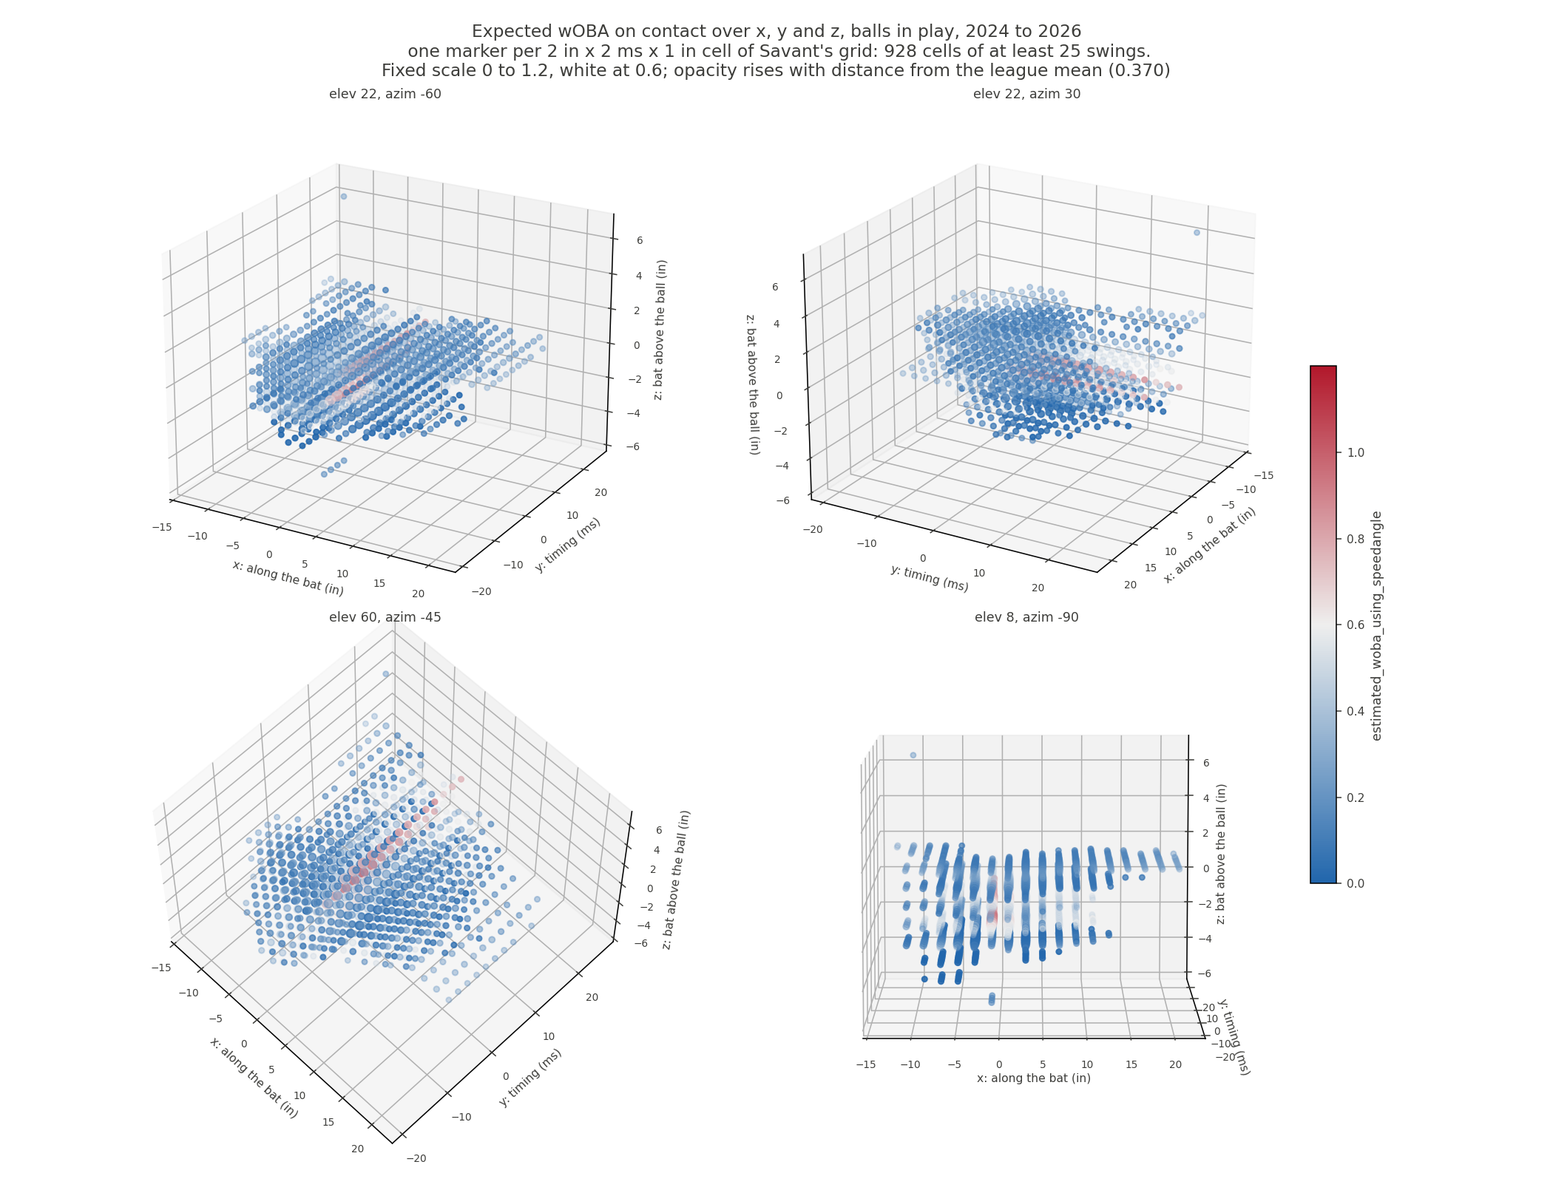
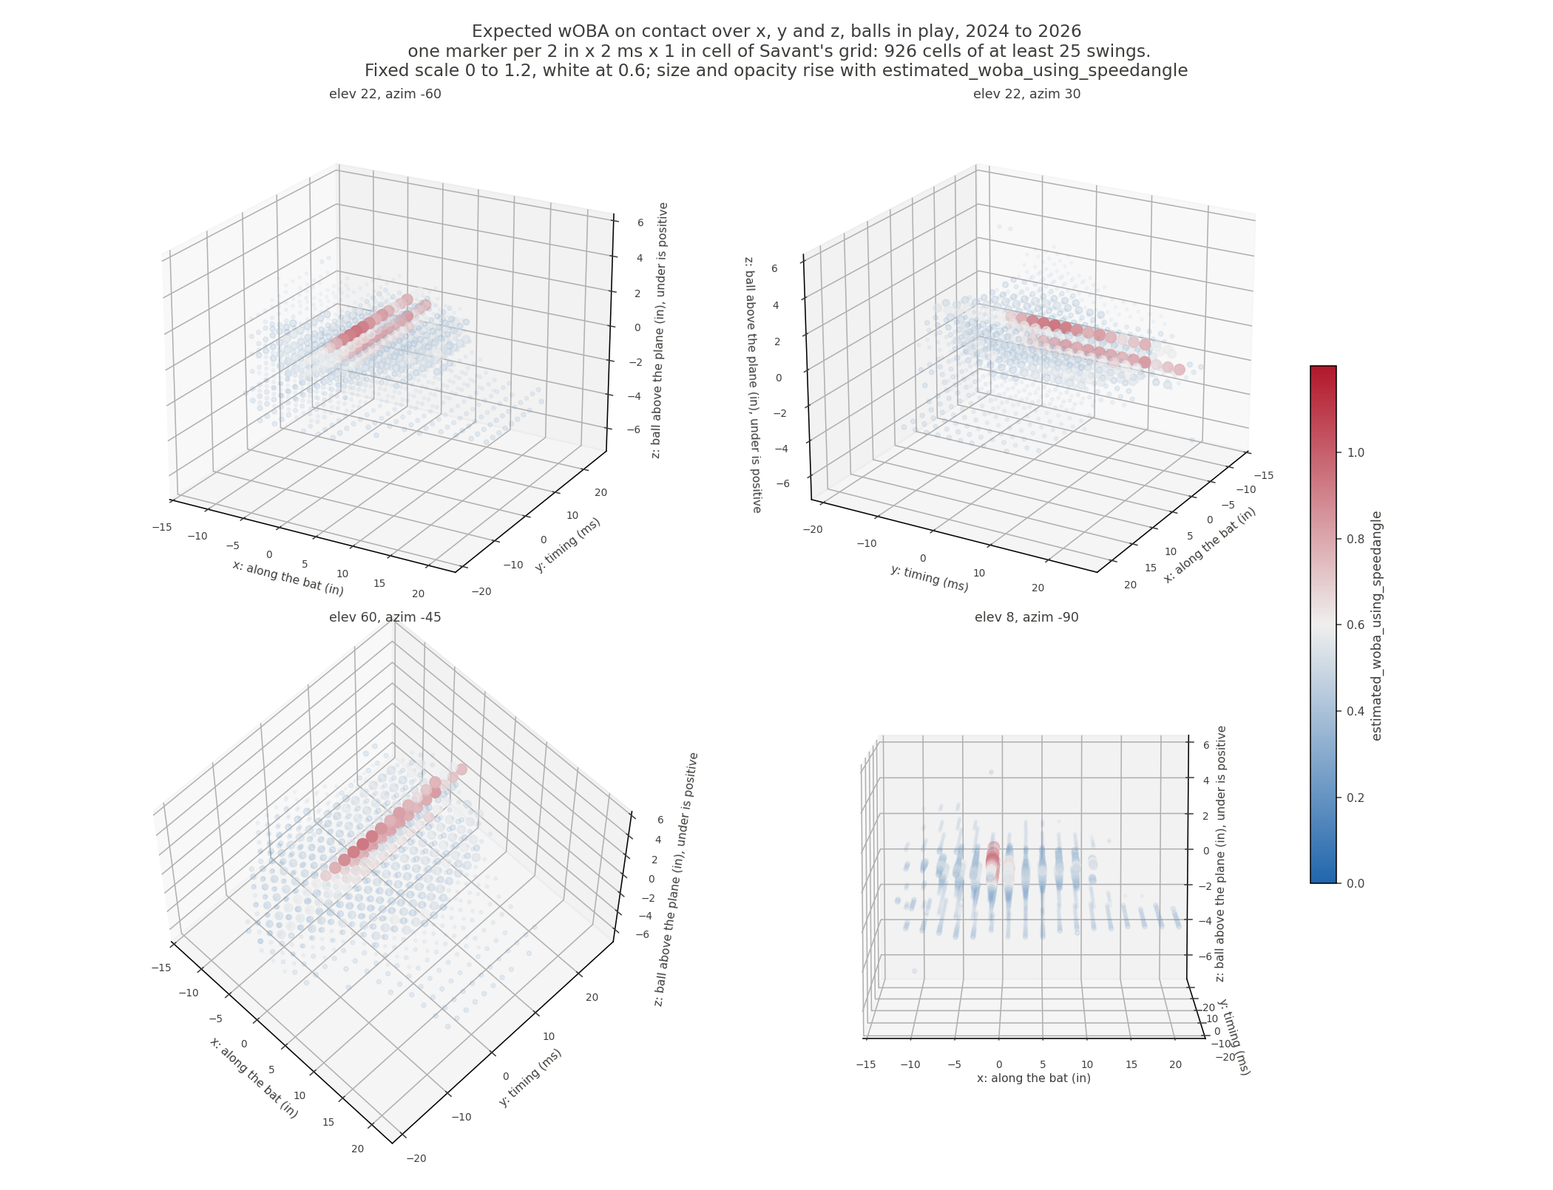
Draw every axis on Savant's own sign, and make the 3D encoding monotone
On z that means UNDER is positive. It reads backwards until you notice that
Savant's number and Savant's label describe different objects: the number is the
ball's height above the swing plane, the label is what the bat did, and a ball
above the plane means the bat passed under it. Getting under the ball is what
lifts it, so a positive launch angle from "under" is correct rather than a sign
error: the mean is +22 degrees at z = +0.75 and -6 at z = -0.75.

The 3D figures now encode size and opacity monotonically in the value, so the
best cells are full size and opaque and the worst fade out. A symmetric ramp
about the league mean made the worst cells as loud as the best and buried the
ridge inside a shell of ordinary blue. Opacity normalises on the data's own
range rather than the fixed colour scale, so the reddest cell present reaches
full opacity even though expected wOBA tops out near .92 on a bar drawn to 1.2.

Dropped the top-pitcher and top-batter panels.

111 tests pass, 7 skip without the cached pulls.

diff --git a/cp_lib/plots.py b/cp_lib/plots.py
@@ -22,19 +22,21 @@ from .calibrate import BINS, to_bin  # noqa: E402
 AXIS_LABEL = {
     "x": "along the bat (in): tied up  |  centered  |  flail",
     "y": "timing (ms): late  |  on time  |  early",
-    # Every figure draws z as the BAT's height above the ball, so "over" is
-    # positive, which is the way round Jeremy reads it. Savant's stored field
-    # is the opposite sign: it is the BALL's height above the swing plane, and
-    # their own leaderboard publishes avg_z_over = -3.78, avg_z_under = +2.99.
-    # See DISPLAY_SIGN.
-    "z": "bat above the ball (in): under  |  lined up  |  over",
+    # Savant's own sign and ordering. The word "ball" is load-bearing: the
+    # NUMBER is the ball's height above the swing plane while the LABEL is what
+    # the bat did, and they point opposite ways. A ball above the plane means
+    # the bat passed under it, so "under" is the POSITIVE end. Savant's league
+    # page publishes avg_z_over = -3.78 and avg_z_under = +2.99, and getting
+    # under the ball is what lifts it: mean launch angle is +22 degrees at
+    # z = +0.75 and -6 degrees at z = -0.75.
+    "z": "ball above the swing plane (in): over  |  lined up  |  under",
 }
 
-# Applied at the drawing boundary only. Everything upstream -- reconstruction,
-# calibration, and every comparison against Savant -- stays on Savant's own
-# sign, so a tail row's raw delta never has to be negated to be checked. Both
-# thresholds are symmetric, so nothing else moves.
-DISPLAY_SIGN = {"x": 1.0, "y": 1.0, "z": -1.0}
+# Every axis is drawn on Savant's own sign, so a figure and a validation table
+# can never disagree. The machinery stays because the bin-mirroring rule in
+# to_display_bin is easy to get wrong and this is where it is written down;
+# flipping one entry to -1.0 is the whole change if an axis ever needs it.
+DISPLAY_SIGN = {"x": 1.0, "y": 1.0, "z": 1.0}
 
 
 def to_display(axis: str, values):
@@ -239,20 +241,30 @@ def _diverging_limits(vals, vcenter=0.0, weights=None, keep=1.0):
     return centre, centre - lim, centre + lim
 
 
-def _fade(values, weights=None, keep=0.98, floor=0.10, span=0.80):
-    """Alpha per cell: the ordinary fades out, the unusual stays.
+def _fade(values, keep=0.98, floor=0.03, span=0.97, power=1.8):
+    """Opacity and a 0-to-1 weight per cell, rising with the VALUE itself.
 
-    The anchor is NOT a parameter, deliberately. It is always the data's own
-    weighted centre, so no caller can hand it a fixed scale's white. Passing
-    xwOBA's white (0.600) instead of its league mean (0.370) made the good
-    ridge the faintest thing in the figure and the ordinary shell the most
-    opaque, which is this function's purpose exactly inverted.
+    Monotone, not symmetric about a centre. The reader is looking for where the
+    good contact is, so the best cells are opaque and full size and the worst
+    fade out of the way. An earlier version ramped on distance from the league
+    mean, which made the worst cells as loud as the best and buried the ridge
+    inside an opaque shell of ordinary blue.
+
+    Normalised on the data's own robust range rather than the fixed colour
+    scale, so the reddest cell PRESENT reaches full opacity even when the scale
+    leaves headroom above it (xwOBA tops out near 0.92 on a bar drawn to 1.2).
+    Colour stays comparable between figures; opacity is a within-figure aid.
     """
     v = np.asarray(values, float)
-    centre = float(np.average(v, weights=weights) if weights is not None else v.mean())
-    seen = float(np.quantile(np.abs(v - centre), keep)) or 0.1
-    dist = np.clip(np.abs(v - centre) / seen, 0.0, 1.0)
-    return floor + span * dist ** 1.1, centre
+    finite = v[np.isfinite(v)]
+    if finite.size == 0:
+        return np.full(v.shape, floor), np.zeros(v.shape)
+    edge = (1.0 - keep) / 2.0
+    lo, hi = np.quantile(finite, [edge, 1.0 - edge])
+    if hi <= lo:
+        lo, hi = float(finite.min()), float(finite.max())
+    u = np.clip((v - lo) / (hi - lo), 0.0, 1.0) if hi > lo else np.full(v.shape, 0.5)
+    return floor + span * u ** power, u
 
 
 def _scale_for(value, vals, vcenter=0.0, weights=None, keep=1.0):
@@ -394,21 +406,22 @@ def cloud3d(cal, df, out_png: Path, title: str,
     centre, lo, hi = _scale_for(value, g["mean"], vcenter, weights=g["n"], keep=keep)
     norm = TwoSlopeNorm(vcenter=centre, vmin=lo, vmax=hi)
     # Colour comes off the fixed scale so the figure is comparable across
-    # figures; opacity comes off the data, via _fade, which owns its own anchor.
-    alpha, data_centre = _fade(g["mean"], weights=g["n"], keep=keep)
+    # figures; opacity and size come off the data, rising with the value.
+    alpha, u = _fade(g["mean"], keep=keep)
     # Alpha is baked into the face colours rather than passed as `alpha=`. A 3D
     # collection re-pairs its alpha array against its EDGE colours too, and with
     # edgecolors="none" that is 551 alphas against 0 colours, which raises.
     rgba = CMAP(norm(g["mean"].to_numpy(float)))
     rgba[:, 3] = alpha
-    size = 8 + 42 * (g["n"] / g["n"].max()) ** 0.4
+    size = 4 + 56 * u ** 1.8
     views = ((22, -60), (22, 30), (60, -45), (8, -90))
     for i, (elev, azim) in enumerate(views, 1):
         ax = fig.add_subplot(2, 2, i, projection="3d")
         ax.scatter(g["bx"], g["by"], g["bz"], c=rgba, s=size, depthshade=False)
         ax.set_xlabel("x: along the bat (in)", fontsize=8, color=INK, labelpad=1)
         ax.set_ylabel("y: timing (ms)", fontsize=8, color=INK, labelpad=1)
-        ax.set_zlabel("z: bat above the ball (in)", fontsize=8, color=INK, labelpad=1)
+        ax.set_zlabel("z: ball above the plane (in), under is positive",
+                      fontsize=8, color=INK, labelpad=1)
         ax.tick_params(labelsize=7, colors=INK)
         ax.view_init(elev=elev, azim=azim)
         ax.set_title(f"elev {elev}, azim {azim}", fontsize=9, color=INK)
@@ -426,7 +439,7 @@ def cloud3d(cal, df, out_png: Path, title: str,
     fig.suptitle(f"{title}\n one marker per {BINS['x']:.0f} in x {BINS['y']:.0f} ms x "
                  f"{BINS['z']:.0f} in cell of Savant's grid: {len(g):,} cells of at least "
                  f"{min_n} swings.\nFixed scale {lo:g} to {hi:g}, white at {centre:g}; "
-                 f"opacity rises with distance from the league mean ({data_centre:.3f})",
+                 f"size and opacity rise with {value}",
                  fontsize=12, color=INK)
     out_png = Path(out_png)
     out_png.parent.mkdir(parents=True, exist_ok=True)
@@ -458,23 +471,35 @@ def cloud3d_html(cal, df, out_html: Path, title: str,
     # reach needs white placed at the fraction the centre actually sits at.
     mid = (centre - lo) / (hi - lo) if hi > lo else 0.5
     scale = [[0.0, POS], [round(float(mid), 6), MID], [1.0, NEG]]
-    size = 3 + 14 * (g["n"] / g["n"].max()) ** 0.4
+    # Same encoding as the static figure: size and opacity rise with the value.
+    # scatter3d takes only a SCALAR marker.opacity, so per-cell alpha has to be
+    # baked into rgba strings; that leaves the trace with no colour axis, so a
+    # second empty trace carries the colourbar.
+    alpha, u = _fade(g["mean"], keep=keep)
+    size = 2 + 16 * u ** 1.8
+    rgba = CMAP(TwoSlopeNorm(vcenter=centre, vmin=lo, vmax=hi)(g["mean"].to_numpy(float)))
+    fill = [f"rgba({int(r*255)},{int(gr*255)},{int(b*255)},{a:.3f})"
+            for (r, gr, b, _), a in zip(rgba, alpha)]
     hover = [f"x {bx:+.0f} in<br>y {by:+.0f} ms<br>z {bz:+.0f} in"
              f"<br>{value} {m:.3f}<br>{int(n):,} swings"
              for bx, by, bz, m, n in zip(g["bx"], g["by"], g["bz"], g["mean"], g["n"])]
     fig = go.Figure(go.Scatter3d(
         x=g["bx"], y=g["by"], z=g["bz"], mode="markers", text=hover, hoverinfo="text",
-        marker=dict(size=size, color=g["mean"], colorscale=scale,
-                    cmin=lo, cmax=hi, opacity=0.72,
-                    line=dict(width=0),
+        showlegend=False,
+        marker=dict(size=size, color=fill, line=dict(width=0))))
+    fig.add_trace(go.Scatter3d(
+        x=[None], y=[None], z=[None], mode="markers", hoverinfo="skip", showlegend=False,
+        marker=dict(size=0.1, color=[lo], colorscale=scale, cmin=lo, cmax=hi,
+                    showscale=True,
                     colorbar=dict(title=dict(text=value, side="right"), thickness=14))))
     fig.update_layout(
         title=dict(text=f"{title}<br><sub>one marker per {BINS['x']:.0f} in x "
                         f"{BINS['y']:.0f} ms x {BINS['z']:.0f} in cell of Savant's grid: "
-                        f"{len(g):,} cells of at least {min_n} swings. White at "
-                        f"{centre:.3f}; marker size is cell count</sub>"),
+                        f"{len(g):,} cells of at least {min_n} swings. Fixed scale "
+                        f"{lo:g} to {hi:g}, white at {centre:g}; size and opacity "
+                        f"rise with {value}</sub>"),
         scene=dict(xaxis_title="x: along the bat (in)", yaxis_title="y: timing (ms)",
-                   zaxis_title="z: bat above the ball (in)",
+                   zaxis_title="z: ball above the plane (in), under is positive",
                    aspectmode="cube"),
         paper_bgcolor="white", margin=dict(l=0, r=0, t=70, b=0), height=820)
     fig.write_html(out_html, include_plotlyjs=True, full_html=True)

diff --git a/tests/test_contact_point_plots.py b/tests/test_contact_point_plots.py
@@ -359,27 +359,37 @@ def test_every_panel_of_a_hexbin_grid_shares_one_scale(tmp_path):
     assert norms[0] == norms[1] == norms[2] == (0.0, 0.6, 1.2), norms
 
 
-def test_fade_keeps_the_unusual_and_drops_the_ordinary():
-    """The ridge must draw MORE opaque than the sea it sits in.
+def test_fade_rises_with_the_value_and_is_monotone():
+    """Opacity tracks the value itself, not distance from a centre.
 
-    Anchoring the fade on the fixed scale's white (0.600) instead of the data's
-    own centre inverted this: a 0.80 ridge sat 0.20 from white while a 0.30 sea
-    sat 0.30 from it, so the ordinary cells drew hardest.
+    A symmetric ramp made the worst cells as loud as the best and buried the
+    ridge inside an opaque shell of ordinary blue. The best cell must be fully
+    opaque and the worst nearly invisible.
     """
-    vals = np.concatenate([np.full(40, 0.80), np.full(360, 0.30)])
-    w = np.ones_like(vals)
-    alpha, centre = plots._fade(vals, weights=w)
-    assert 0.3 < centre < 0.45, f"anchor is not the data centre: {centre}"
-    assert alpha[:40].mean() > alpha[40:].mean(), (
-        f"the ridge drew fainter than the sea: {alpha[0]:.3f} vs {alpha[-1]:.3f}")
-    assert alpha.min() >= 0.10 and alpha.max() <= 0.90
+    vals = np.linspace(0.0, 1.0, 200)
+    alpha, u = plots._fade(vals)
+    assert np.all(np.diff(alpha) >= -1e-12), "opacity is not monotone in the value"
+    assert alpha[-1] > 0.95, f"the top of the data is not opaque: {alpha[-1]:.3f}"
+    assert alpha[0] < 0.10, f"the bottom of the data is not faint: {alpha[0]:.3f}"
+    assert u[0] == 0.0 and u[-1] == 1.0
 
 
-def test_fade_has_no_anchor_argument():
-    """The anchor is owned by _fade so a caller cannot pass a scale's white."""
+def test_fade_reaches_full_opacity_even_when_the_scale_leaves_headroom():
+    """xwOBA tops out near 0.92 on a bar drawn to 1.2.
+
+    Normalising opacity on the fixed scale would cap the reddest cell present
+    at about two thirds opaque, so it normalises on the data instead.
+    """
+    vals = np.linspace(0.05, 0.92, 300)
+    alpha, _ = plots._fade(vals)
+    assert alpha.max() > 0.95, alpha.max()
+
+
+def test_fade_takes_no_weights_or_anchor():
+    """Nothing about the fade can be steered by a caller's colour scale."""
     import inspect
     names = set(inspect.signature(plots._fade).parameters)
-    assert names == {"values", "weights", "keep", "floor", "span"}, names
+    assert names == {"values", "keep", "floor", "span", "power"}, names
 
 
 def test_cloud3d_renders_a_ridge_more_opaque_than_its_surroundings(tmp_path):
@@ -392,7 +402,7 @@ def test_cloud3d_renders_a_ridge_more_opaque_than_its_surroundings(tmp_path):
     g = plots.cells3d(cal, df, "estimated_woba_using_speedangle", 10)
     ridge = (g["mean"] > 0.7).to_numpy()
     assert ridge.any() and (~ridge).any(), "fixture lost its ridge"
-    alpha, _ = plots._fade(g["mean"], weights=g["n"])
+    alpha, _ = plots._fade(g["mean"])
     assert alpha[ridge].mean() > alpha[~ridge].mean()
     out = plots.cloud3d(cal, df, tmp_path / "c.png", "t",
                         value="estimated_woba_using_speedangle", min_n=10)
@@ -413,38 +423,32 @@ def test_the_interactive_page_uses_the_fixed_scale(tmp_path):
     assert (float(lo.group(1)), float(hi.group(1))) == (0.0, 1.2), (lo.group(1), hi.group(1))
 
 
-def test_only_z_is_flipped_for_display():
+def test_every_axis_is_drawn_on_savants_own_sign():
+    """No axis is negated, so a figure and a validation table cannot disagree."""
+    assert plots.DISPLAY_SIGN == {"x": 1.0, "y": 1.0, "z": 1.0}
     v = np.array([-3.0, 0.0, 2.0])
-    assert list(plots.to_display("x", v)) == [-3.0, 0.0, 2.0]
-    assert list(plots.to_display("y", v)) == [-3.0, 0.0, 2.0]
-    assert list(plots.to_display("z", v)) == [3.0, -0.0, -2.0]
+    for axis in ("x", "y", "z"):
+        assert list(plots.to_display(axis, v)) == [-3.0, 0.0, 2.0]
 
 
-def test_over_draws_positive_and_under_negative():
-    """Jeremy reads "over" as up.
+def test_under_is_the_positive_end_of_z_like_savant():
+    """Savant's number is the BALL's height, their word is what the BAT did.
 
-    Savant stores the BALL above the swing plane, so their over is negative
-    (avg_z_over = -3.78 in the 2025 league leaderboard). Every figure draws the
-    BAT above the ball instead, so over is positive. This pins the direction.
+    A ball above the swing plane means the bat passed under it, so "under" is
+    positive: their 2025 league page publishes avg_z_over = -3.78 and
+    avg_z_under = +2.99, and every one of their per-swing rows labelled Over
+    carries a negative value under both batter hands.
     """
-    from cp_lib.calibrate import THRESH
-    over_stored = np.array([-6.0, -3.0])     # Savant's sign: ball well below the plane
-    under_stored = np.array([3.0, 6.0])
-    assert (plots.to_display("z", over_stored) > THRESH["z"]).all()
-    assert (plots.to_display("z", under_stored) < -THRESH["z"]).all()
-    assert "under  |  lined up  |  over" in plots.AXIS_LABEL["z"]
+    assert "over  |  lined up  |  under" in plots.AXIS_LABEL["z"]
+    assert "ball above the swing plane" in plots.AXIS_LABEL["z"]
 
 
-def test_cells3d_z_is_drawn_on_the_flipped_sign():
+def test_cells3d_keeps_z_on_savants_sign():
     from cp_lib.calibrate import to_bin
     cal, df = _fake(n=20000, seed=31)
     g = plots.cells3d(cal, df, "estimated_woba_using_speedangle", min_n=5)
     stored = set(np.unique(to_bin("z", cal["z_cal"].to_numpy(float))))
-    assert set(g["bz"]) <= {-b for b in stored}
-    assert set(g["bz"]) & {b for b in stored if b > 0} or True  # symmetry is fine
-    # the decisive half: no drawn bz equals a stored bz of the same nonzero value
-    # unless its negation is also present
-    assert all((-b) in stored for b in g["bz"])
+    assert set(g["bz"]) <= stored
 
 
 def test_a_flipped_bin_still_contains_its_own_value():
@@ -457,23 +461,37 @@ def test_a_flipped_bin_still_contains_its_own_value():
     """
     from cp_lib.calibrate import to_bin, BINS
     rng = np.random.default_rng(5)
-    for axis in ("x", "y", "z"):
-        v = rng.normal(0, 5, 4000)
-        drawn = plots.to_display(axis, v)
-        label = to_bin(axis, drawn)
-        w = BINS[axis]
-        assert np.all(label <= drawn + 1e-9), axis
-        assert np.all(drawn < label + w + 1e-9), axis
+    # Production draws every axis unflipped, so force the negated branch here:
+    # the rule has to stay correct for whoever flips an axis next.
+    for sign in (1.0, -1.0):
+        for axis in ("x", "y", "z"):
+            saved = plots.DISPLAY_SIGN[axis]
+            plots.DISPLAY_SIGN[axis] = sign
+            try:
+                v = rng.normal(0, 5, 4000)
+                drawn = plots.to_display(axis, v)
+                label = to_bin(axis, drawn)
+                w = BINS[axis]
+                assert np.all(label <= drawn + 1e-9), (axis, sign)
+                assert np.all(drawn < label + w + 1e-9), (axis, sign)
+            finally:
+                plots.DISPLAY_SIGN[axis] = saved
 
 
 def test_to_display_bin_agrees_with_binning_the_flipped_value():
     from cp_lib.calibrate import to_bin
     rng = np.random.default_rng(6)
-    for axis in ("x", "y", "z"):
-        v = rng.normal(0, 5, 4000)
-        from_value = to_bin(axis, plots.to_display(axis, v))
-        from_label = plots.to_display_bin(axis, to_bin(axis, v))
-        assert np.allclose(from_value, from_label), axis
+    for sign in (1.0, -1.0):
+        for axis in ("x", "y", "z"):
+            saved = plots.DISPLAY_SIGN[axis]
+            plots.DISPLAY_SIGN[axis] = sign
+            try:
+                v = rng.normal(0, 5, 4000)
+                from_value = to_bin(axis, plots.to_display(axis, v))
+                from_label = plots.to_display_bin(axis, to_bin(axis, v))
+                assert np.allclose(from_value, from_label), (axis, sign)
+            finally:
+                plots.DISPLAY_SIGN[axis] = saved
 
 
 def test_cells3d_and_hexbin_agree_about_where_the_z_ridge_is():
@@ -482,12 +500,11 @@ def test_cells3d_and_hexbin_agree_about_where_the_z_ridge_is():
     n = 60000
     cal = pd.DataFrame({"x_cal": rng.normal(0, 6, n), "y_cal": rng.normal(0, 10, n),
                         "z_cal": rng.normal(0, 2.5, n)})
-    # Peak at STORED z = +1.0, deliberately NOT on a bin edge: a peak sitting on
-    # an edge gives the same label under both conventions and proves nothing.
-    # Correct: drawn value -1.0, which lives in the bin whose lower edge is -1.5.
+    # Peak at z = +1.0, deliberately NOT on a bin edge. It lives in the bin
+    # whose lower edge is +0.5, and the 3D path must agree with the raw value.
     v = np.exp(-((cal["z_cal"] - 1.0) ** 2) / 2.0)
     df = pd.DataFrame({"estimated_woba_using_speedangle": v})
     g = plots.cells3d(cal, df, "estimated_woba_using_speedangle", min_n=20)
     prof = g.groupby("bz").apply(lambda t: np.average(t["mean"], weights=t["n"]))
     peak = float(prof.idxmax())
-    assert peak == -1.5, f"the drawn peak landed at {peak}, expected -1.5"
+    assert peak == 0.5, f"the peak landed at {peak}, expected +0.5"

diff --git a/README.md b/README.md
@@ -20,33 +20,35 @@ Every figure draws expected wOBA on one fixed scale, 0 to 1.2 with white at
 A scale fitted to each panel's own data makes a quiet panel and a violent one
 look alike, and nothing carries from one figure to the next.
 
-The z axis is drawn as the BAT's height above the ball, so "over" is positive.
-Savant stores the opposite sign, the ball's height above the swing plane: their
-2025 leaderboard publishes avg_z_over = -3.78 and avg_z_under = +2.99, and every
-one of their 11,476 per-swing rows labelled Over carries a negative value under
-both batter hands. The flip is applied when drawing only; every comparison
-against Savant stays on Savant's sign.
+Every axis is drawn on Savant's own sign. On z that means UNDER is positive,
+which reads backwards until you notice that the number and the label describe
+different objects: the number is the ball's height above the swing plane, and
+the label is what the bat did. A ball above the plane means the bat passed under
+it. Savant's 2025 leaderboard publishes avg_z_over = -3.78 and avg_z_under =
++2.99, and every one of their 11,476 per-swing rows labelled Over carries a
+negative value under both batter hands.
 
-x needs no such flip. Tied up is negative for all 1,826 of Savant's own tail
-rows under both hands, because it measures handle against tip along the bat and
-does not care which side of the plate the batter stands on.
+Tied up is negative for all 1,826 of Savant's own tail rows under both hands,
+because it measures handle against tip along the bat and does not care which
+side of the plate the batter stands on.
 
-On balls in play the best contact is made with the bat about three quarters of
-an inch UNDER the ball, not over it, and the gap is not close: one inch under is
-worth .584 in expected wOBA against .179 one inch over. Launch angle is the
-mechanism, and it runs monotonically through zero.
+The best contact on balls in play is made about three quarters of an inch UNDER
+the ball, not over it, and the gap is not close: one inch under is worth .584 in
+expected wOBA against .179 one inch over. Launch angle is the mechanism and it
+runs monotonically through zero.
 
-| bat vs ball | expected wOBA | launch angle | exit velocity |
-|---|---|---|---|
-| 1.25 in under | .392 | +32 deg | 90.0 |
-| 0.75 in under | .679 | +22 deg | 93.7 |
-| lined up | .553 | +8 deg | 94.7 |
-| 0.75 in over | .251 | -6 deg | 91.2 |
-| 1.25 in over | .119 | -17 deg | 85.8 |
+| z | | expected wOBA | launch angle | exit velocity |
+|---|---|---|---|---|
+| +1.25 | under | .392 | +32 deg | 90.0 |
+| +0.75 | under | .679 | +22 deg | 93.7 |
+| 0 | lined up | .553 | +8 deg | 94.7 |
+| -0.75 | over | .251 | -6 deg | 91.2 |
+| -1.25 | over | .119 | -17 deg | 85.8 |
 
-Slightly under puts the ball in the air at the angle that pays. Slightly over
-puts it in the ground. There is no symmetric counterpart because there is no
-ideal ground ball.
+Getting under the ball lifts it, which is why "under" carries a positive launch
+angle. Getting over it puts the ball in the ground. There is no symmetric
+counterpart because there is no ideal ground ball, and that asymmetry is the
+single largest feature of all three figures.
 
 Only one of the three z bands pays. A swing more than 2 inches off its own
 plane almost never puts the ball in play: 1.4% of "over" swings and 3.4% of
